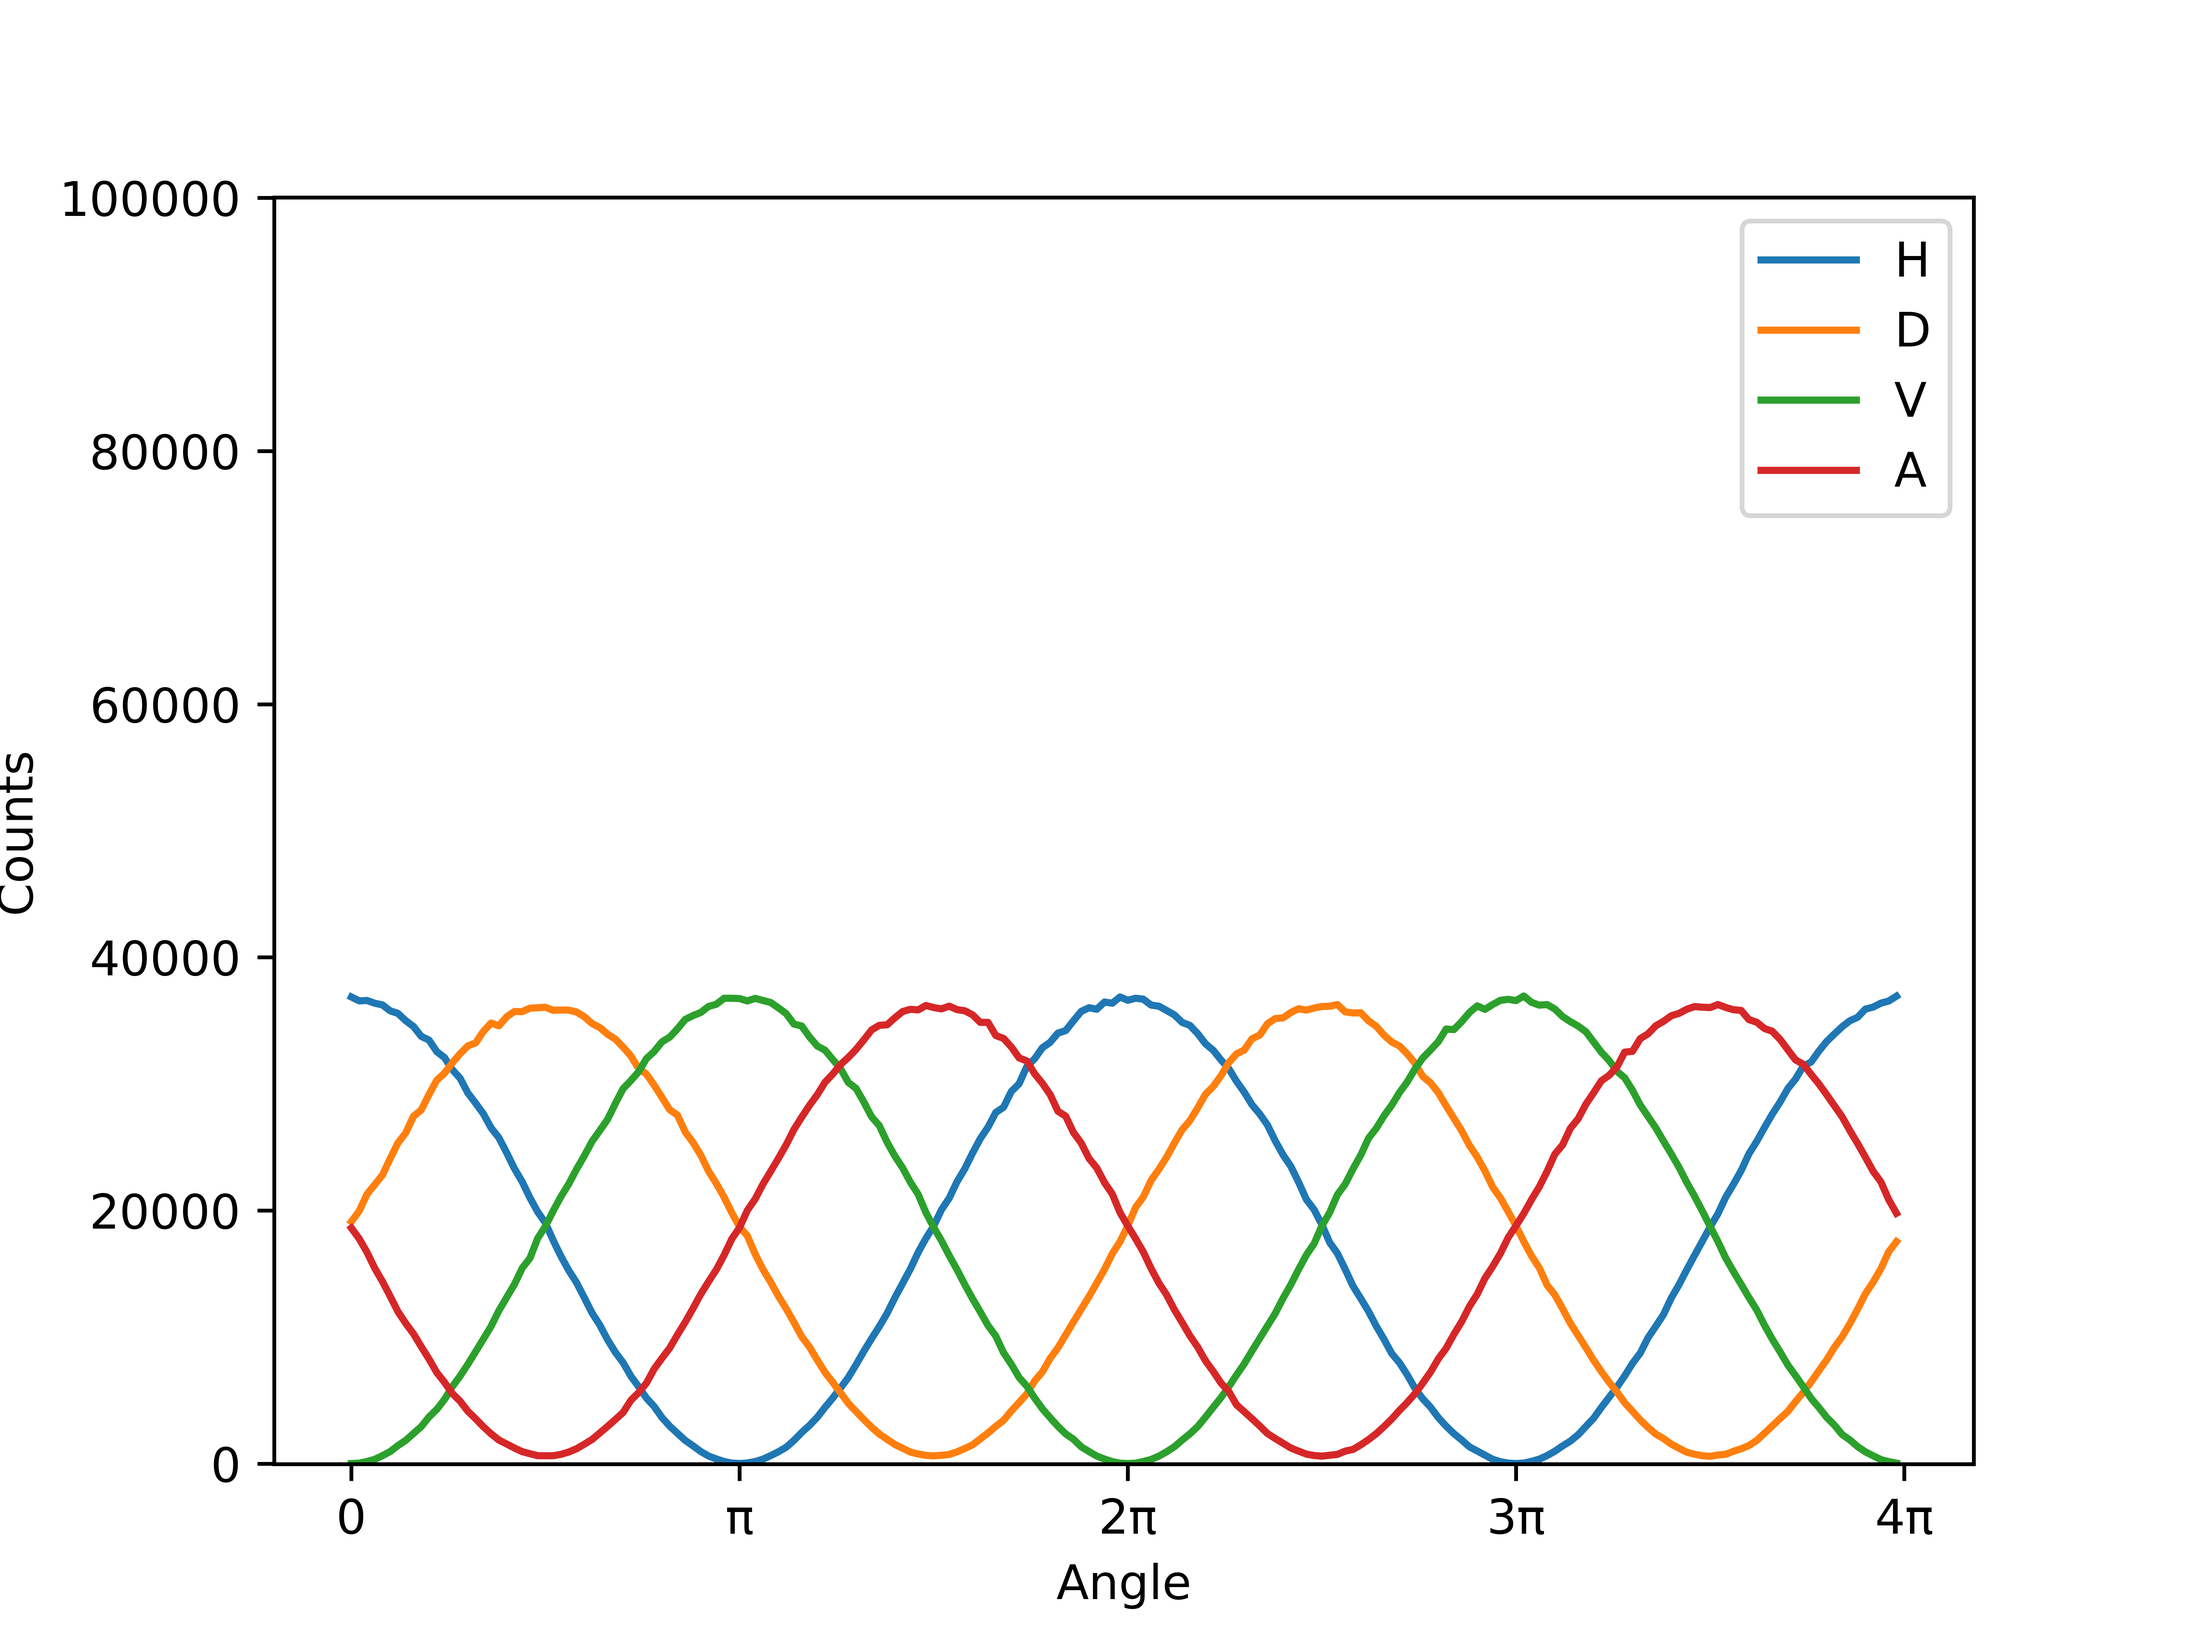
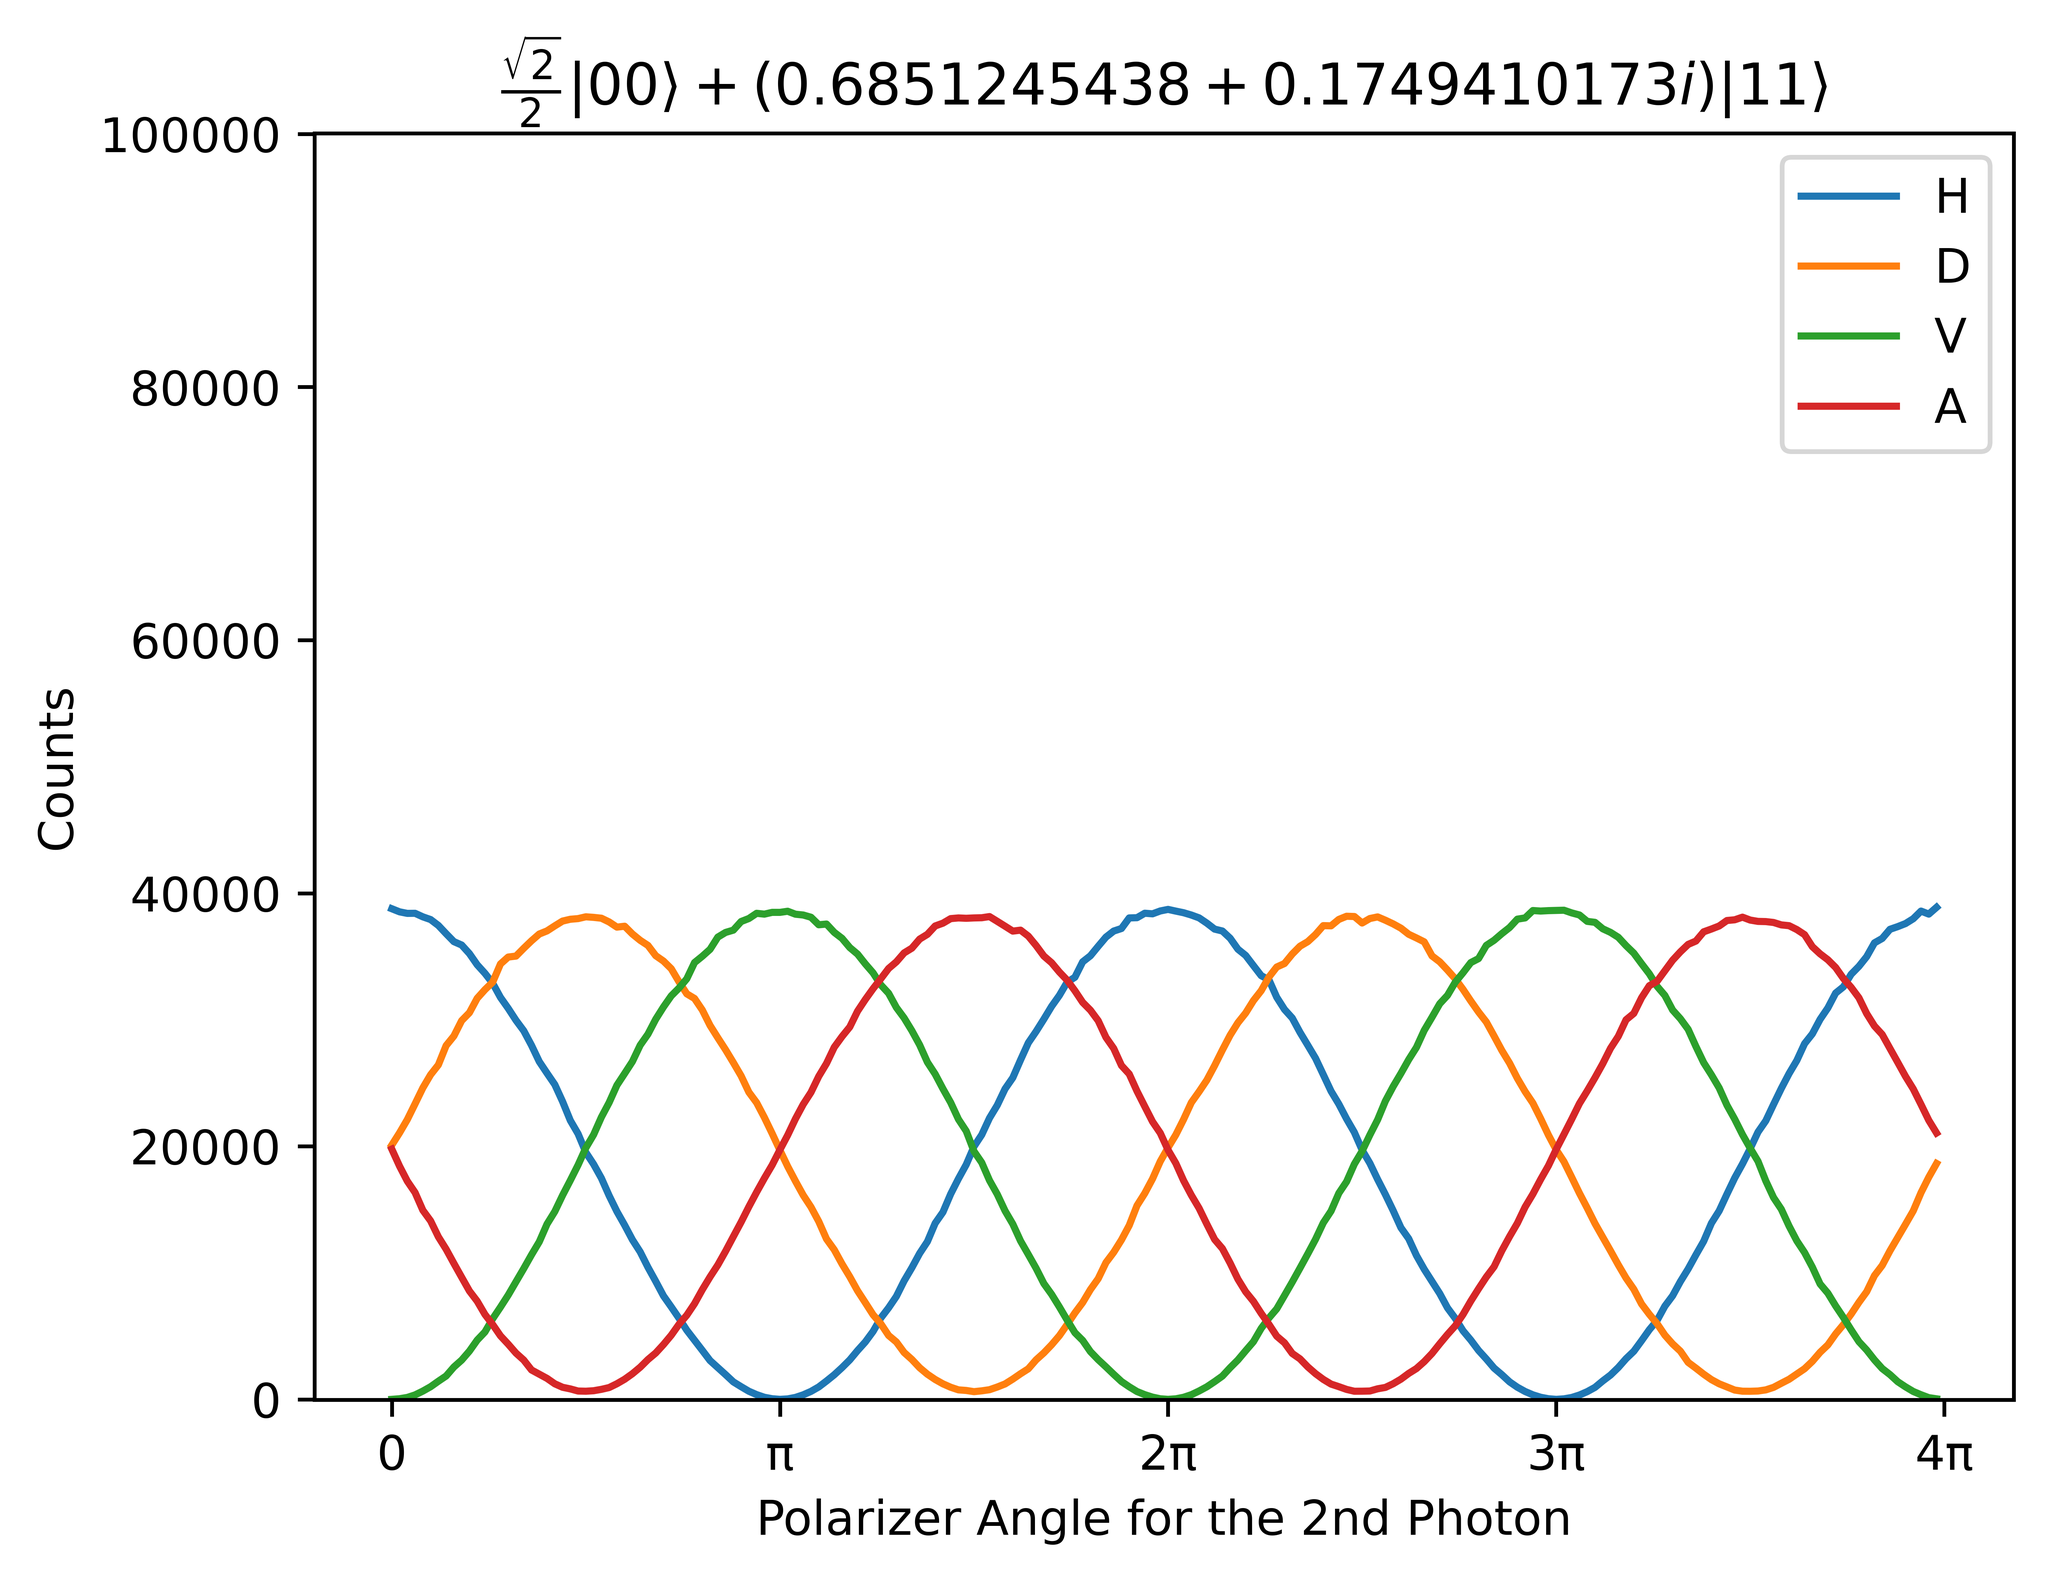
fixed some small bugs

diff --git a/simulations_with_practical_issues/plot.py b/simulations_with_practical_issues/plot.py
@@ -3,6 +3,9 @@ import numpy as np
 import math
 import matplotlib.pyplot as plt
 
+rotations = 50
+states = ['H', 'D', 'V', 'A']
+
 
 def plot_visibility_darkcounts(start, stop, num_points):
 
@@ -14,9 +17,10 @@ def plot_visibility_darkcounts(start, stop, num_points):
     entangled_state = [1 / math.sqrt(2), 0, 0, np.exp(1j * delta) / math.sqrt(2)]
 
     for dc in x_val:
-        sim = Rotation('config.yaml', entangled_state, 200)
+        sim = Rotation('config.yaml', entangled_state, rotations)
         sim.set_dc_rate(dc)
-        visibility = sim.run()
+        sim.run()
+        visibility = sim.get_visibility()
         for i in range(4):
             y_val[i].append(visibility[i])
 
@@ -36,8 +40,9 @@ def plot_visibility_phasediff(start, stop, num_points):
 
     for delta in x_val:
         entangled_state = [1 / math.sqrt(2), 0, 0, np.exp(1j * delta) / math.sqrt(2)]
-        sim = Rotation('config.yaml', entangled_state, 200)
-        visibility = sim.run()
+        sim = Rotation('config.yaml', entangled_state, rotations)
+        sim.run()
+        visibility = sim.get_visibility()
         for i in range(4):
             y_val[i].append(visibility[i])
 
@@ -60,10 +65,11 @@ def plot_visibility_loss(start, stop, num_points):
     entangled_state = [1 / math.sqrt(2), 0, 0, np.exp(1j * delta) / math.sqrt(2)]
 
     for loss in x_val:
-        sim = Rotation('config.yaml', entangled_state, 200)
+        sim = Rotation('config.yaml', entangled_state, rotations)
         sim.set_loss_signal(loss)
         sim.set_loss_idler(loss)
-        visibility = sim.run()
+        sim.run()
+        visibility = sim.get_visibility()
         for i in range(4):
             y_val[i].append(visibility[i])
 
@@ -86,9 +92,10 @@ def plot_visibility_jitter(start, stop, num_points):
     entangled_state = [1 / math.sqrt(2), 0, 0, np.exp(1j * delta) / math.sqrt(2)]
 
     for jitter in x_val:
-        sim = Rotation('config.yaml', entangled_state, 200)
+        sim = Rotation('config.yaml', entangled_state, rotations)
         sim.set_jitter(jitter)
-        visibility = sim.run()
+        sim.run()
+        visibility = sim.get_visibility()
         for i in range(4):
             y_val[i].append(visibility[i])
 
@@ -110,9 +117,10 @@ def plot_visibility_deadtime(start, stop, num_points):
     entangled_state = [1 / math.sqrt(2), 0, 0, np.exp(1j * delta) / math.sqrt(2)]
 
     for deadtime in x_val:
-        sim = Rotation('config.yaml', entangled_state, 200)
+        sim = Rotation('config.yaml', entangled_state, rotations)
         sim.set_deadtime(deadtime)
-        visibility = sim.run()
+        sim.run()
+        visibility = sim.get_visibility()
         for i in range(4):
             y_val[i].append(visibility[i])
 
@@ -127,7 +135,7 @@ def plot_visibility_deadtime(start, stop, num_points):
 
 if __name__ == '__main__':
     # plot_visibility_darkcounts(0, 100000, 4)
-    # plot_visibility_phasediff(0, 2*math.pi, 8)
+    plot_visibility_phasediff(start=0, stop=2*math.pi, num_points=32)
     # plot_visibility_loss(0, 1, 4)
     # plot_visibility_jitter(0, 1000, 4)
-    plot_visibility_deadtime(0, 1000000, 4)
+    # plot_visibility_deadtime(0, 1000000, 4)

diff --git a/simulations_with_practical_issues/Rotation.py b/simulations_with_practical_issues/Rotation.py
@@ -57,11 +57,13 @@ class Rotation:
                         self.state = Statevector(qc).draw(output='latex_source')
 
                     sim = Simulator(pr_00, 'config.yaml')
-                    bar()
-                    self.y_val[i].append(sim.run())
+                    sim.run()
+                    self.y_val[i].append(sim.get_coincidences())
 
                     if i == 0:
                         self.x_val.append(delta)
+
+                    bar()
 
     def get_visibility(self):
 
@@ -88,7 +90,7 @@ class Rotation:
         ax.set_title(title)
         ax.set_xticks([0, math.pi, 2 * math.pi, 3 * math.pi, 4 * math.pi], ['0', 'π', '2π', '3π', '4π'])
         plt.legend()
-        plt.savefig('plots\\polarization_correlation.png', dpi=1000)
+        plt.savefig('plots\\polarization_correlation.png', dpi=1000, bbox_inches='tight')
         plt.show()
 
     def set_dc_rate(self, dc):

diff --git a/simulations_with_practical_issues/Simulator.py b/simulations_with_practical_issues/Simulator.py
@@ -85,7 +85,9 @@ class Simulator:
         coinc2 = np.intersect1d(s_floor, i_floor + 1, return_indices=True)
         self.coinc = np.hstack((coinc0, coinc1, coinc2))
 
+    def get_coincidences(self):
         return self.coinc.shape[1]
+
 
     def plot_cross_corr(self):
         x_val = range(-100000, 100000, self.coincidence_interval)
@@ -115,7 +117,7 @@ class Simulator:
         plt.plot(x_val, y_val)
         plt.xlabel('Time difference (ps)')
         plt.ylabel('Counts')
-        plt.savefig('plots\\cross_correlation_plot.png', dpi=1000)
+        plt.savefig('plots\\cross_correlation_plot.png', dpi=1000, bbox_inches='tight')
         plt.show()
 
 
